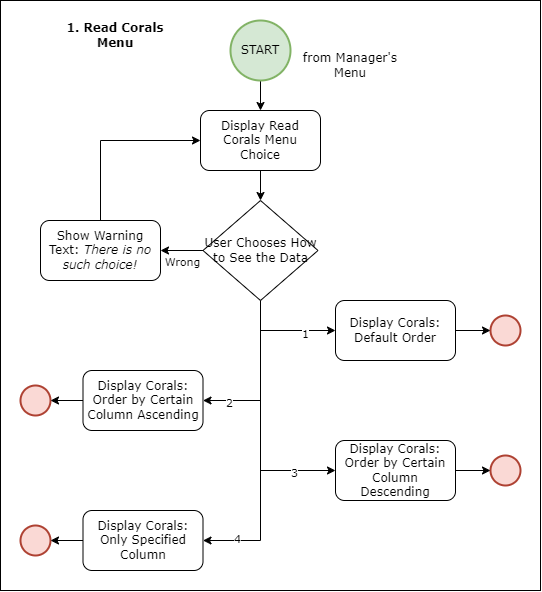
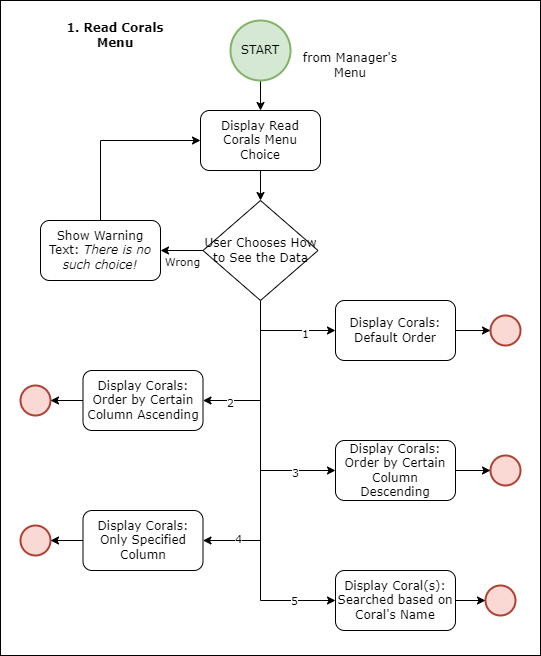
added feature to search based on coral's name

diff --git a/functions/corals_crud_functions.py b/functions/corals_crud_functions.py
@@ -3,7 +3,7 @@ from functions.corals_helper_function import (
     _sort_corals_certain_column, _money_formatting_rupiah, _conversion_money_to_number, _conversion_number_to_money
 )
 from tabulate import tabulate
-import os
+import os, re
 
 def exit_program():
     '''
@@ -36,11 +36,10 @@ def sort_corals_display(corals_dict):
     2. Sorted by Certain Column (Ascending) [affect the database]
     3. Sorted by Certain Column (Descending) [affect the database]
     4. Filtered Specific Column(s) [does not affect the default database]
+    5. Search by Coral's Name Column [does not affect the default database]
 
-    Write the choice! (1-4)
+    Write the choice! (1-5)
     '''
-
-    original_corals_dict = corals_dict.copy()
 
     while True:
         sort_input_user = input(sort_instruction)
@@ -61,7 +60,7 @@ def sort_corals_display(corals_dict):
             show_corals_lists(corals_dict)
             break
         elif sort_input_user == '4':
-            while True:
+            while len(corals_dict.keys()) > 0:
                 filter_text_instruction = '''
                 Write some columns you want to filtered!
                 (if more than one split it by comma \",\" between each column)\t
@@ -82,6 +81,37 @@ def sort_corals_display(corals_dict):
                 show_corals_lists(filtered_corals_dict, list(filtered_corals_dict)[0])
                 break
             break
+        elif sort_input_user == '5':
+            while len(corals_dict['Name']) > 0:
+                coral_dict_searched = corals_dict.copy()
+
+                for key in coral_dict_searched.keys():
+                    coral_dict_searched[key] = []
+
+                search_text_instruction = 'What Name of Corals, do you want to search?\n'
+                search_coral_name = input(search_text_instruction)
+
+                compiled_pattern = re.compile(search_coral_name, re.IGNORECASE)
+
+                for coral_name in corals_dict['Name']:
+                    compiled_pattern = re.compile(search_coral_name, re.IGNORECASE)
+                    regex_search_status = bool(compiled_pattern.search(coral_name))
+
+                    if regex_search_status:
+                        idx_result_true = corals_dict['Name'].index(coral_name)
+
+                        for key in coral_dict_searched.keys():
+                            coral_dict_searched[key].append(corals_dict[key][idx_result_true])
+
+                print('\n >>>>>>> Searched Corals based on Name <<<<<<<')
+                show_corals_lists(coral_dict_searched)
+
+                if len(coral_dict_searched['Code']) > 0:
+                    break
+                else:
+                    print(f'\nNo Corals: {search_coral_name} exist!')
+                    continue
+            break   
         else:
             print('There is no such choice!')
             continue

diff --git a/corals_main_program.py b/corals_main_program.py
@@ -83,8 +83,6 @@ if __name__ == '__main__':
                     delete_coral(corals_dict)
                 elif menu_input == '4':
                     update_coral(corals_dict)
-                elif menu_input == '5':
-                    maintain_coral(corals_dict, maintained_dict)
                 elif menu_input == '9':
                     break
                 elif menu_input == '0':

diff --git a/README.md b/README.md
@@ -20,7 +20,8 @@ Coral Reefs, or also can be called as Ocean rainforest, although only has a popu
 ### 2. Read Menu (Manager & Inspector)
 ![Show Corals Choices](https://github.com/zeenfts/coral-reefs-management-system/blob/main/images/flows_program/02_show_corals_choices.png?raw=true)
 ![Show Corals Default & Ordered](https://github.com/zeenfts/coral-reefs-management-system/blob/main/images/flows_program/02_show_corals_default_ordered.png?raw=true)
-![Filtered]()
+![Show Filtered Column](https://github.com/zeenfts/coral-reefs-management-system/blob/main/images/flows_program/02_show_filtered_coral_column.png?raw=true)
+![Searched Coral Name](https://github.com/zeenfts/coral-reefs-management-system/blob/main/images/flows_program/02_show_searched_coral_name.png?raw=true)
 ![Show Still Maintained Coral by Inspector](https://github.com/zeenfts/coral-reefs-management-system/blob/main/images/flows_program/07_still_being_maintained_corals_menu_inspector.png?raw=true)
 ### 3. Create Menu (Manager & Inspector)
 ![Create by Manager](https://github.com/zeenfts/coral-reefs-management-system/blob/main/images/flows_program/03_add_coral_menu_manager.png?raw=true)
